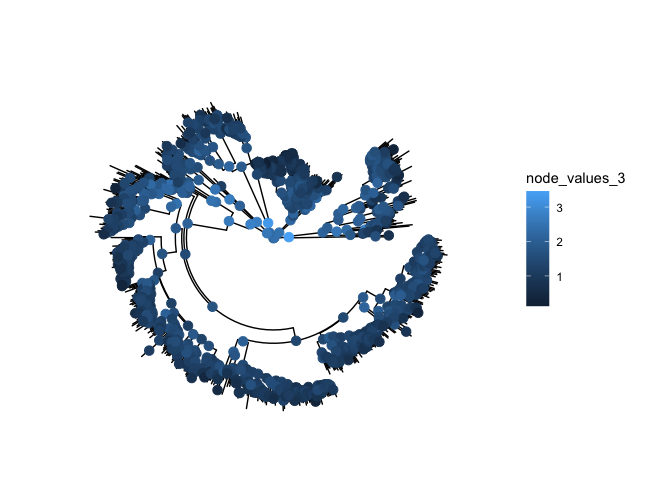
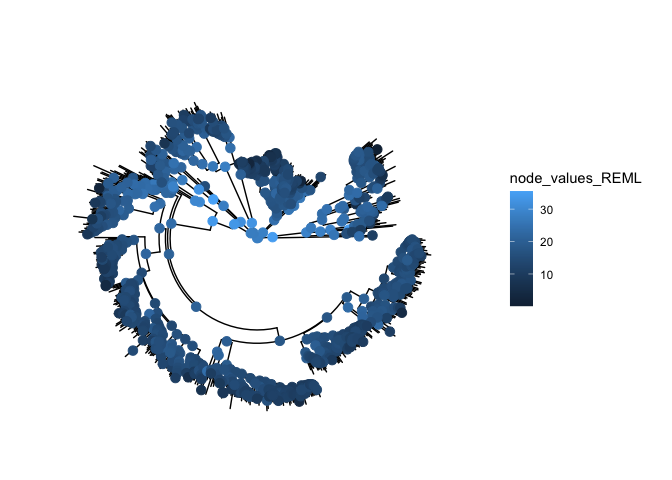
added md file to visualize on github

Changed region(s): [[0.125, 0.2188, 0.6562, 0.875], [0.75, 0.3438, 0.9688, 0.6562]]

diff --git a/Final_Project.md b/Final_Project.md
@@ -1,0 +1,91 @@
+Final Project E\&EB 354
+================
+
+## ML
+
+    ## Warning in sqrt(diag(solve(h))): NaNs produced
+
+![](Final_Project_files/figure-gfm/unnamed-chunk-3-1.png)<!-- -->
+Metadata about REML reconstruction:
+
+Residual log-likelihood: -3620.553863
+
+CI95 for ML:
+
+|     | lower bound | upper bound |
+| :-- | ----------: | ----------: |
+| 820 |    1.640912 |    5.569241 |
+| 821 |    1.654606 |    5.555528 |
+| 822 |    1.163133 |    6.046221 |
+| 823 |    1.577236 |    5.630586 |
+| 824 |    1.729779 |    5.480501 |
+| 825 |    1.913126 |    5.296268 |
+| 826 |    1.928765 |    5.270549 |
+| 827 |    1.827166 |    4.456771 |
+| 828 |    1.272778 |    1.908321 |
+| 829 |    1.838788 |    5.368857 |
+
+sample ML confidence interval
+
+## REML
+
+    ## Warning in sqrt(1/out$hessian): NaNs produced
+
+![](Final_Project_files/figure-gfm/unnamed-chunk-5-1.png)<!-- -->
+Metadata about REML reconstruction:
+
+Residual log-likelihood: -5664.2874262
+
+Sigma2: 997.3621519, NaN
+
+CI95 for REML:
+
+|     | lower bound | upper bound |
+| :-- | ----------: | ----------: |
+| 820 | \-11.170629 |   16.942259 |
+| 821 | \-11.075762 |   16.847165 |
+| 822 | \-14.542507 |   20.307337 |
+| 823 | \-11.577820 |   17.328727 |
+| 824 | \-10.482808 |   16.261825 |
+| 825 |  \-9.168933 |   14.914383 |
+| 826 |  \-9.050760 |   14.727896 |
+| 827 |  \-7.636693 |   11.102322 |
+| 828 |  \-1.464976 |    3.070575 |
+| 829 |  \-9.671487 |   15.420109 |
+
+sample REML confidence interval
+
+## PIC
+
+![](Final_Project_files/figure-gfm/unnamed-chunk-7-1.png)<!-- -->
+
+|     | lower bound | upper bound |
+| :-- | ----------: | ----------: |
+| 820 |   2.0001156 |    3.771613 |
+| 821 |   1.8748948 |    4.297813 |
+| 822 |   0.8110138 |    4.270835 |
+| 823 |   1.7176718 |    3.872031 |
+| 824 |   2.4806467 |    4.499565 |
+| 825 |   0.7682447 |    2.667815 |
+| 826 |   0.7397868 |    2.736672 |
+| 827 |   0.3333333 |    1.660659 |
+| 828 |   0.8454750 |    1.137609 |
+| 829 |   1.1800702 |    3.378577 |
+
+sample PIC confidence interval
+
+## Compare the values by plotting ML and PIC over REML
+
+![](Final_Project_files/figure-gfm/unnamed-chunk-9-1.png)<!-- -->![](Final_Project_files/figure-gfm/unnamed-chunk-9-2.png)<!-- -->
+
+## confidence interval ML
+
+![](Final_Project_files/figure-gfm/unnamed-chunk-10-1.png)<!-- -->
+
+## confidence interval REML
+
+![](Final_Project_files/figure-gfm/unnamed-chunk-11-1.png)<!-- -->
+
+## confidence interval PIC
+
+![](Final_Project_files/figure-gfm/unnamed-chunk-12-1.png)<!-- -->
